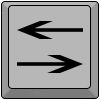
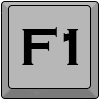
Help Panel Updated

Changed region(s): [[0.15, 0.21, 0.84, 0.75]]

diff --git a/Assets/Scripts/HelpPanel.cs b/Assets/Scripts/HelpPanel.cs
@@ -13,7 +13,7 @@ public class HelpPanel : MonoBehaviour {
 	
 	// Update is called once per frame
 	void Update () {
-		if(Input.GetKeyDown(KeyCode.Tab)){
+		if(Input.GetKeyDown(KeyCode.F1)){
 			panel.SetActive(!panel.activeSelf);
 			tab.SetActive(!panel.activeSelf);
 		}
